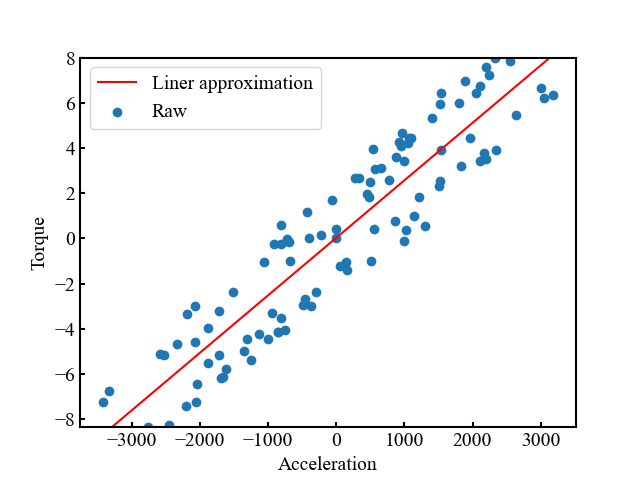
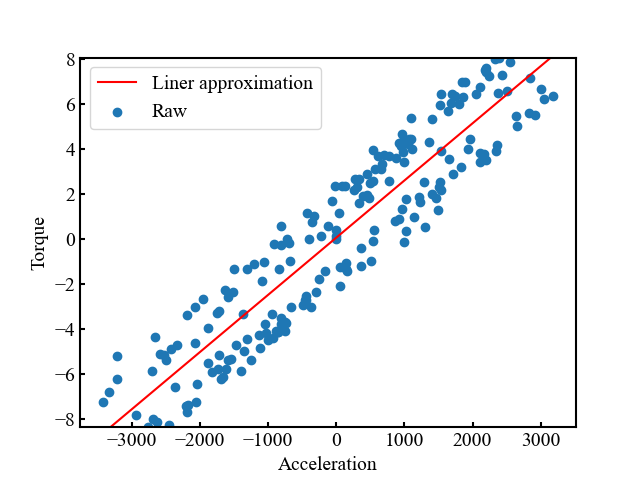
sth

diff --git a/doutei.py b/doutei.py
@@ -7,7 +7,7 @@ def csv2ndarray(csv, line_num): #csvと列番号を指定
     csvdata = pd.read_csv(csv, header=0, usecols=[line_num])
 
     # 100行間隔で間引き
-    cut_csv = csvdata[1::100]
+    cut_csv = csvdata[1::50]
     # csvから読んだデータをnumpyの行列に入れる
     array = cut_csv.values
     # print(array)
